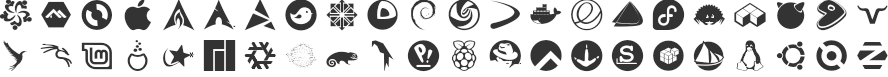
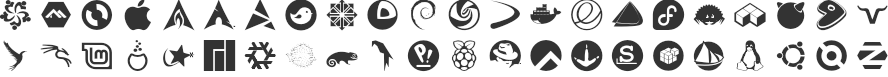
Scale Kali Linux back up
Fixes regression from aef7b01d38929a47bb06dd27f67435d3fea78899 by
scaling kali logo up to fit to SVG height (instead of width).
This makes kali wider than 1em, breaking the existing .fa-fw style.
Work around this by overwriting .fa-fw font-size for wider icons to
scale them back down.

Changed region(s): [[0.0, 0.0, 0.0608, 0.3896], [0.0304, 0.5714, 0.0912, 0.7273], [0.0608, 0.7792, 0.0912, 0.8312]]

diff --git a/scripts/generate-font.py b/scripts/generate-font.py
@@ -6,12 +6,13 @@ import fontforge
 autowidth = False
 font_em = 512
 font_design_size = 16
+jsonfile = os.environ['JSON_FILE']
 fontname = os.environ['FONT_NAME']
 outputdir = os.environ['OUTPUT_DIR']
 vectorsdir = 'vectors'
 start_codepoint = int(os.environ['START_CODEPOINT'], base=0)
 design_px = font_em // font_design_size
-
+outjsonfile = os.path.join(outputdir, fontname+'.out.json')
 font = fontforge.font()
 # font.encoding = 'UnicodeFull'
 font.fontname = fontname
@@ -28,16 +29,30 @@ font.autoWidth(0, 0, font.em)
 glyph = font.createChar(32)
 glyph.width = 200
 
-def addGlyph(name, source, code):
-	glyph = font.createChar(code, name)
-	glyph.importOutlines(source)
+outputInfo = {
+	'em': font.em,
+	'icons': {},
+}
+
+def addIcon(iconId, icon):
+	glyph = font.createChar(icon['codepoint'], icon['name'])
+	glyph.importOutlines(
+		os.path.join(vectorsdir, (iconId+'.svg')),
+	)
 	glyph.left_side_bearing = 0
 	glyph.right_side_bearing = 0
 
-with open(f'{outputdir}/{fontname}.json') as f:
-	for icon in json.load(f)['icons']:
-		addGlyph(icon['name'], os.path.join(vectorsdir, (icon['id']+'.svg')), start_codepoint+int(icon['offset']))
+	outputInfo['icons'][iconId] = {
+		'width': glyph.width,
+	}
+
+with open(jsonfile) as f:
+	for iconId, icon in json.load(f)['icons'].items():
+		addIcon(iconId, icon)
 
 font.generate(os.path.join(outputdir, fontname + '.ttf'))
 font.generate(os.path.join(outputdir, fontname + '.woff'))
 font.generate(os.path.join(outputdir, fontname + '.woff2'))
+
+with open(outjsonfile, 'w') as f:
+	json.dump(outputInfo, f, indent=2)
